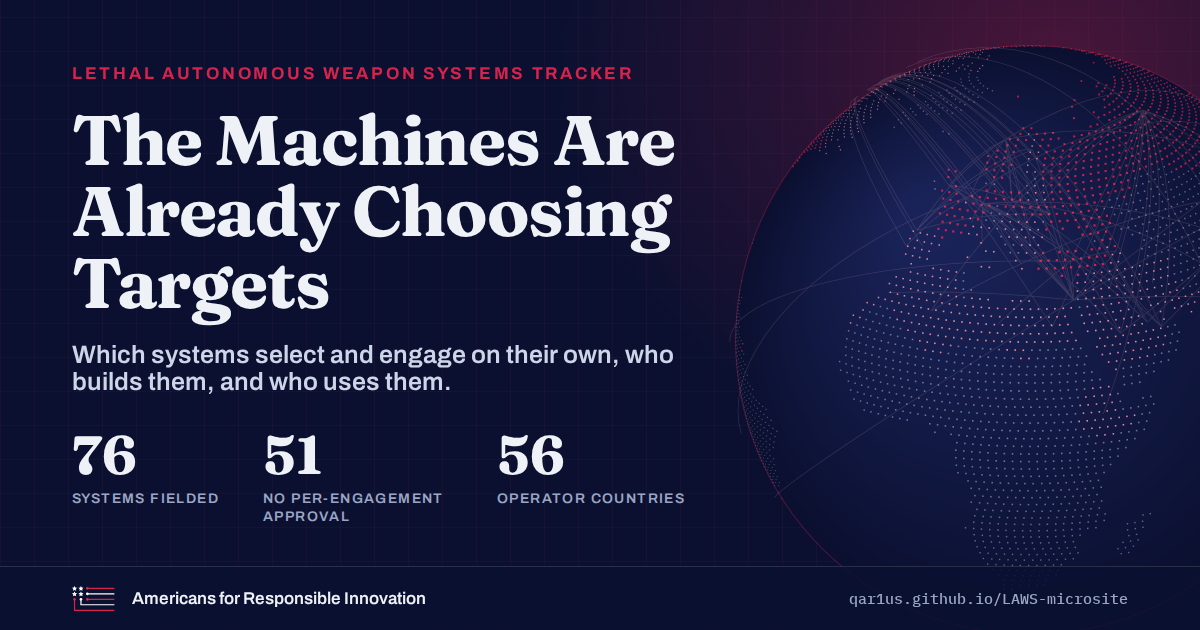
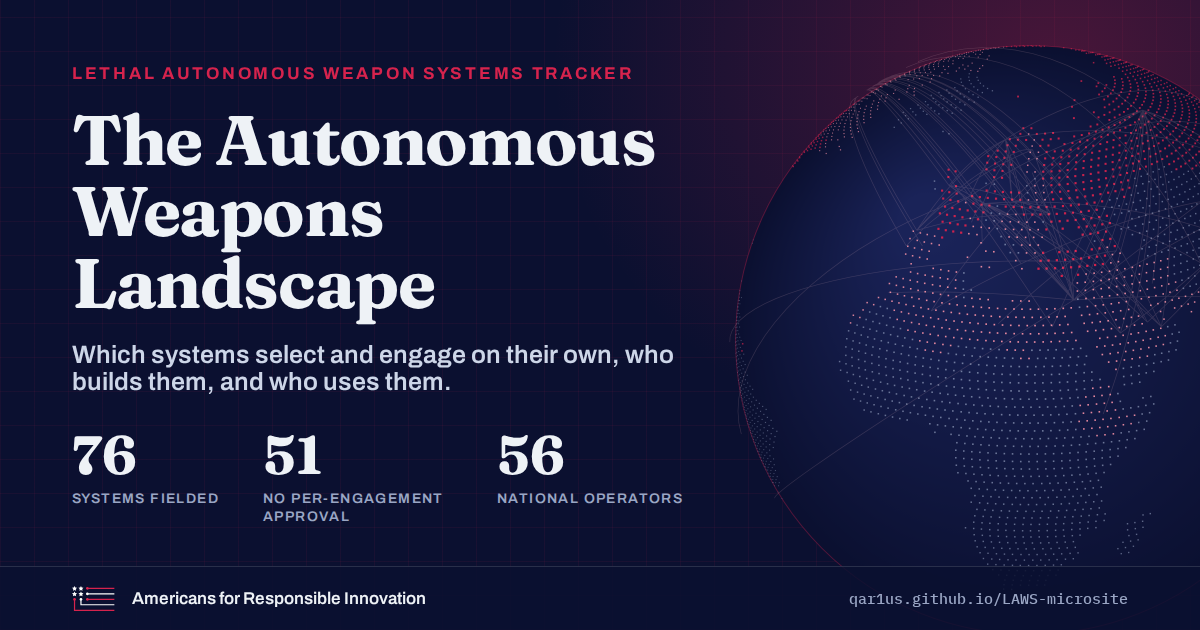
New homepage and section titles, "national operators", clickable class cards
- Homepage title: The Autonomous Weapons Landscape (also in the share image
  and its alt text; img/social-card.png rebuilt).
- Section 01 heading: Where Human Judgment Enters the Engagement Matters.
- "Operator countries" / "operator" labels become "national operators" so
  they cannot be read as the individual human operator.
- systems.html title: Systems Directory.
- Autonomy class cards on the homepage link to systems.html filtered by class.

Claude-Session: https://claude.ai/code/session_011EBrwgnAchMBMbqB6N2mTQ

Changed region(s): [[0.0617, 0.181, 0.5858, 0.5127], [0.4008, 0.7841, 0.5858, 0.8143]]

diff --git a/index.html b/index.html
@@ -14,12 +14,12 @@
 <meta property="og:image" content="https://qar1us.github.io/LAWS-microsite/img/social-card.png">
 <meta property="og:image:width" content="1200">
 <meta property="og:image:height" content="630">
-<meta property="og:image:alt" content="The Machines Are Already Choosing Targets — Lethal Autonomous Weapon Systems Tracker, Americans for Responsible Innovation">
+<meta property="og:image:alt" content="The Autonomous Weapons Landscape — Lethal Autonomous Weapon Systems Tracker, Americans for Responsible Innovation">
 <meta name="twitter:card" content="summary_large_image">
 <link rel="preconnect" href="https://fonts.googleapis.com">
 <link rel="preconnect" href="https://fonts.gstatic.com" crossorigin>
 <link href="https://fonts.googleapis.com/css2?family=Fraunces:opsz,wght@9..144,600;9..144,700&family=Archivo:wght@400;500;600;700&family=IBM+Plex+Mono:wght@400;500&display=swap" rel="stylesheet">
-<link rel="stylesheet" href="styles.css?v=202610051200">
+<link rel="stylesheet" href="styles.css?v=202610081835">
 </head>
 <body>
 
@@ -120,7 +120,7 @@
   <div class="hero-bg" aria-hidden="true"></div>
   <div class="container hero-inner">
     <p class="eyebrow">National Security &amp; Strategic Competition</p>
-    <h1>The Machines Are Already<br>Choosing Targets</h1>
+    <h1>The Autonomous Weapons<br>Landscape</h1>
     <p class="standfirst">
       Dozens of lethal and kinetic autonomous weapon systems are fielded and deployed today, increasingly
       blurring the boundary between who or what makes life-and-death decisions.
@@ -137,7 +137,7 @@
       </div>
       <div class="stat" role="listitem">
         <span class="stat-n" id="s-ops">—</span>
-        <span class="stat-l">Operator countries</span>
+        <span class="stat-l">National operators</span>
       </div>
     </div>
   </div>
@@ -147,7 +147,7 @@
 <section id="classification" class="band">
   <div class="container">
     <p class="kicker">01 — The spectrum of human control</p>
-    <h2 class="h-display">Autonomy is not a switch.<br>It is a question of when the human stops mattering.</h2>
+    <h2 class="h-display">Where Human Judgment Enters the Engagement Matters</h2>
     <p class="lede measure">
       Each system in this dataset can select a target or complete an engagement with some level of
       autonomy. What separates them is <em>where</em> in the kill chain human judgment is absent —
@@ -187,8 +187,8 @@
     <p class="kicker">03 — The landscape</p>
     <h2 class="h-display">Who builds them, and who uses them.</h2>
     <p class="lede measure">
-      Origin and operator counts diverge sharply — these systems export widely. The landscape
-      view breaks the dataset down by country of origin, by operator, by domain and by
+      Origin and national operator counts diverge sharply — these systems export widely. The landscape
+      view breaks the dataset down by country of origin, by national operator, by domain and by
       autonomy class, and lists the manufacturers behind each producing state.
     </p>
     <a class="cta" href="landscape.html">
@@ -219,8 +219,8 @@
   </article>
 </div>
 
-<script src="hero.js?v=202610051200"></script>
-<script src="sections.js?v=202610051200"></script>
-<script src="script.js?v=202610051200"></script>
+<script src="hero.js?v=202610081835"></script>
+<script src="sections.js?v=202610081835"></script>
+<script src="script.js?v=202610081835"></script>
 </body>
 </html>

diff --git a/landscape.html b/landscape.html
@@ -4,22 +4,22 @@
 <meta charset="utf-8">
 <meta name="viewport" content="width=device-width, initial-scale=1">
 <title>The Landscape — Lethal Autonomous Weapon Systems Tracker</title>
-<meta name="description" content="Deployed lethal autonomous weapon systems broken down by country of origin, operator, domain and autonomy class, with the manufacturers behind each producing state.">
+<meta name="description" content="Deployed lethal autonomous weapon systems broken down by country of origin, national operator, domain and autonomy class, with the manufacturers behind each producing state.">
 <!-- Social share: the card is rendered from tools/social-card.html by tools/build_social.js -->
 <meta property="og:type" content="website">
 <meta property="og:site_name" content="Lethal Autonomous Weapon Systems Tracker">
 <meta property="og:title" content="The Landscape — Lethal Autonomous Weapon Systems Tracker">
-<meta property="og:description" content="Deployed lethal autonomous weapon systems broken down by country of origin, operator, domain and autonomy class, with the manufacturers behind each producing state.">
+<meta property="og:description" content="Deployed lethal autonomous weapon systems broken down by country of origin, national operator, domain and autonomy class, with the manufacturers behind each producing state.">
 <meta property="og:url" content="https://qar1us.github.io/LAWS-microsite/landscape.html">
 <meta property="og:image" content="https://qar1us.github.io/LAWS-microsite/img/social-card.png">
 <meta property="og:image:width" content="1200">
 <meta property="og:image:height" content="630">
-<meta property="og:image:alt" content="The Machines Are Already Choosing Targets — Lethal Autonomous Weapon Systems Tracker, Americans for Responsible Innovation">
+<meta property="og:image:alt" content="The Autonomous Weapons Landscape — Lethal Autonomous Weapon Systems Tracker, Americans for Responsible Innovation">
 <meta name="twitter:card" content="summary_large_image">
 <link rel="preconnect" href="https://fonts.googleapis.com">
 <link rel="preconnect" href="https://fonts.gstatic.com" crossorigin>
 <link href="https://fonts.googleapis.com/css2?family=Fraunces:opsz,wght@9..144,600;9..144,700&family=Archivo:wght@400;500;600;700&family=IBM+Plex+Mono:wght@400;500&display=swap" rel="stylesheet">
-<link rel="stylesheet" href="styles.css?v=202610051200">
+<link rel="stylesheet" href="styles.css?v=202610081835">
 </head>
 <body>
 
@@ -54,7 +54,7 @@
     <p class="kicker">03 — The landscape</p>
     <h1>Who builds them,<br>and who uses them.</h1>
     <p class="standfirst">
-      Origin and operator counts diverge sharply. A small group of states designs these
+      Origin and national operator counts diverge sharply. A small group of states designs these
       systems; a far larger group flies, drives and sails them.
     </p>
   </div>
@@ -69,7 +69,7 @@
         <div class="bars" id="bars-origin"></div>
       </div>
       <div>
-        <h3 class="h-sub">By operator</h3>
+        <h3 class="h-sub">By national operator</h3>
         <p class="sub-note">Countries that use at least one system. Numbers exceed Country of
           Origin counts because systems are exported widely.</p>
         <div class="bars" id="bars-operator"></div>
@@ -113,6 +113,6 @@
   </div>
 </footer>
 
-<script src="script.js?v=202610051200"></script>
+<script src="script.js?v=202610081835"></script>
 </body>
 </html>

diff --git a/systems.html b/systems.html
@@ -3,23 +3,23 @@
 <head>
 <meta charset="utf-8">
 <meta name="viewport" content="width=device-width, initial-scale=1">
-<title>All Systems — Lethal Autonomous Weapon Systems Tracker</title>
+<title>Systems Directory — Lethal Autonomous Weapon Systems Tracker</title>
 <meta name="description" content="Every lethal autonomous weapon system in the dataset: search and filter by domain, autonomy class, origin, region fielded and evidence of use. Americans for Responsible Innovation.">
 <!-- Social share: the card is rendered from tools/social-card.html by tools/build_social.js -->
 <meta property="og:type" content="website">
 <meta property="og:site_name" content="Lethal Autonomous Weapon Systems Tracker">
-<meta property="og:title" content="All Systems — Lethal Autonomous Weapon Systems Tracker">
+<meta property="og:title" content="Systems Directory — Lethal Autonomous Weapon Systems Tracker">
 <meta property="og:description" content="Every lethal autonomous weapon system in the dataset: search and filter by domain, autonomy class, origin, region fielded and evidence of use. Americans for Responsible Innovation.">
 <meta property="og:url" content="https://qar1us.github.io/LAWS-microsite/systems.html">
 <meta property="og:image" content="https://qar1us.github.io/LAWS-microsite/img/social-card.png">
 <meta property="og:image:width" content="1200">
 <meta property="og:image:height" content="630">
-<meta property="og:image:alt" content="The Machines Are Already Choosing Targets — Lethal Autonomous Weapon Systems Tracker, Americans for Responsible Innovation">
+<meta property="og:image:alt" content="The Autonomous Weapons Landscape — Lethal Autonomous Weapon Systems Tracker, Americans for Responsible Innovation">
 <meta name="twitter:card" content="summary_large_image">
 <link rel="preconnect" href="https://fonts.googleapis.com">
 <link rel="preconnect" href="https://fonts.gstatic.com" crossorigin>
 <link href="https://fonts.googleapis.com/css2?family=Fraunces:opsz,wght@9..144,600;9..144,700&family=Archivo:wght@400;500;600;700&family=IBM+Plex+Mono:wght@400;500&display=swap" rel="stylesheet">
-<link rel="stylesheet" href="styles.css?v=202610051200">
+<link rel="stylesheet" href="styles.css?v=202610081835">
 </head>
 <body>
 
@@ -121,7 +121,7 @@
       <svg class="ico" aria-hidden="true"><use href="#i-arrow"/></svg> Back to the overview
     </a>
     <p class="kicker">02 — The systems</p>
-    <h1>All systems.</h1>
+    <h1>Systems Directory</h1>
     <p class="standfirst">
       The full dataset. Search by name, manufacturer or theater, or filter by domain, autonomy class,
       country of origin, the region where a system is fielded, and evidence of use. Select any system
@@ -172,6 +172,6 @@
   </article>
 </div>
 
-<script src="script.js?v=202610051200"></script>
+<script src="script.js?v=202610081835"></script>
 </body>
 </html>

diff --git a/script.js b/script.js
@@ -108,7 +108,7 @@
   };
 
   /* ---------- boot ---------- */
-  fetch('data.json?v=202610011424')
+  fetch('data.json?v=202610081835')
     .then(function (r) {
       if (!r.ok) throw new Error('HTTP ' + r.status);
       return r.json();
@@ -195,12 +195,16 @@
       var T = TIERS[t];
       /* The count bar that used to sit here was read as a progress meter rather than a
          share-of-dataset comparison, so it is gone; the number carries it. */
-      return '<div class="tier" style="--tc:' + T.color + '">' +
-        '<span class="tier-n">' + (counts[t] || 0) + '</span>' +
-        '<span class="tier-code">' + t + '</span>' +
+      /* Each card opens the tracker filtered to its class. */
+      var n = counts[t] || 0;
+      return '<a class="tier" href="systems.html?tier=' + t + '" style="--tc:' + T.color + '">' +
+        '<span class="tier-head"><span class="tier-code">' + t + '</span>' +
+          '<span class="tier-n">' + n + '</span></span>' +
         '<p class="tier-name">' + T.name + '</p>' +
         '<p class="tier-desc">' + T.desc + '</p>' +
-        '</div>';
+        '<span class="tier-go">See ' + (n === 1 ? 'this system' : 'these ' + n + ' systems') +
+          ' <svg class="ico" aria-hidden="true"><use href="#i-arrow"/></svg></span>' +
+        '</a>';
     }).join('');
   }
 
@@ -678,7 +682,7 @@
       (s.effects ? '<h3 class="h-sub">Combat use</h3>' + evidenceHTML(s) : '') +
       recordHTML(s) +
       ((s.operators || []).length
-        ? '<h3 class="h-sub">Operators (' + s.operators.length + ')</h3><div class="pills">' +
+        ? '<h3 class="h-sub">National operators (' + s.operators.length + ')</h3><div class="pills">' +
           s.operators.map(function (o) {
             var label = o['Operator Country'] + (o['Military Service or Organization'] ? ' · ' + o['Military Service or Organization'] : '');
             return '<span class="pill">' + esc(label) + '</span>';

diff --git a/styles.css b/styles.css
@@ -177,14 +177,33 @@ a { color: inherit; }
 /* ---------- tier cards ---------- */
 .tiers { display: grid; grid-template-columns: repeat(4, 1fr); gap: 1rem; }
 .tier {
+  display: flex; flex-direction: column;
   background: #fff; border: 1px solid var(--rule); border-top: 4px solid var(--tc);
   padding: 1.3rem 1.2rem 1.4rem;
+  color: inherit; text-decoration: none;
+  transition: border-color 0.15s ease, box-shadow 0.15s ease, transform 0.15s ease;
 }
+/* Cards link to the tracker filtered by class: they lift on hover/focus and the
+   footer line turns the class color, so they read as controls. */
+.tier:hover, .tier:focus-visible {
+  border-color: var(--tc); box-shadow: 0 6px 18px rgba(21, 28, 66, 0.10); transform: translateY(-2px);
+}
+.tier:focus-visible { outline: 2px solid var(--tc); outline-offset: 2px; }
+.tier-go {
+  margin-top: auto; padding-top: 1rem;
+  display: inline-flex; align-items: center; gap: 0.35rem;
+  font-size: 0.8rem; font-weight: 600; color: var(--ink-2);
+}
+.tier-go .ico { width: 0.9rem; height: 0.9rem; transition: transform 0.15s ease; }
+.tier:hover .tier-go, .tier:focus-visible .tier-go { color: var(--ink); }
+.tier:hover .tier-go .ico, .tier:focus-visible .tier-go .ico { transform: translateX(3px); color: var(--tc); }
+@media (prefers-reduced-motion: reduce) { .tier, .tier-go .ico { transition: none; } .tier:hover { transform: none; } }
+.tier-head { display: flex; justify-content: space-between; align-items: flex-start; }
 .tier-code {
   font-family: var(--mono); font-size: 1.5rem; font-weight: 500; color: var(--tc); line-height: 1;
 }
 .tier-n {
-  float: right; font-family: var(--display); font-size: 1.9rem; font-weight: 700;
+  font-family: var(--display); font-size: 1.9rem; font-weight: 700;
   line-height: 1; color: var(--ink); font-variant-numeric: tabular-nums;
 }
 .tier-name {

diff --git a/sections.js b/sections.js
@@ -133,8 +133,8 @@
         '<p class="rg-kicker">Fielded in</p>' +
         '<h3 class="rg-name">' + esc(st.region) + '</h3>' +
         '<p class="rg-stat"><b>' + st.list.length + '</b> system' + (st.list.length === 1 ? '' : 's') +
-          '<span class="sep">·</span><b>' + st.countries.length + '</b> operator ' +
-          (st.countries.length === 1 ? 'country' : 'countries') + '</p>' +
+          '<span class="sep">·</span><b>' + st.countries.length + '</b> national ' +
+          (st.countries.length === 1 ? 'operator' : 'operators') + '</p>' +
         '<p class="rg-countries">' + esc(st.countries.slice(0, SHOW).join(', ')) + esc(more) + '</p>' +
         '<div class="minis">' + st.featured.map(function (s, k) { return mini(s, api, k); }).join('') + '</div>' +
         '<a class="rg-all" href="systems.html?region=' + encodeURIComponent(st.region) + '">See all ' +

diff --git a/tools/social-card.html b/tools/social-card.html
@@ -51,13 +51,13 @@
   <canvas id="globe" width="1280" height="1280"></canvas>
   <div class="copy">
     <p class="eyebrow">Lethal Autonomous Weapon Systems Tracker</p>
-    <h1>The Machines Are Already Choosing Targets</h1>
+    <h1>The Autonomous Weapons Landscape</h1>
     <p class="sub">Which systems select and engage on their own, who builds them, and who uses them.</p>
   </div>
   <div class="stats">
     <div class="stat"><b id="n-fielded">—</b><span>Systems fielded</span></div>
     <div class="stat"><b id="n-noapproval">—</b><span>No per-engagement approval</span></div>
-    <div class="stat"><b id="n-ops">—</b><span>Operator countries</span></div>
+    <div class="stat"><b id="n-ops">—</b><span>National operators</span></div>
   </div>
   <div class="foot">
     <img src="../img/ari-mark.svg" alt="">
